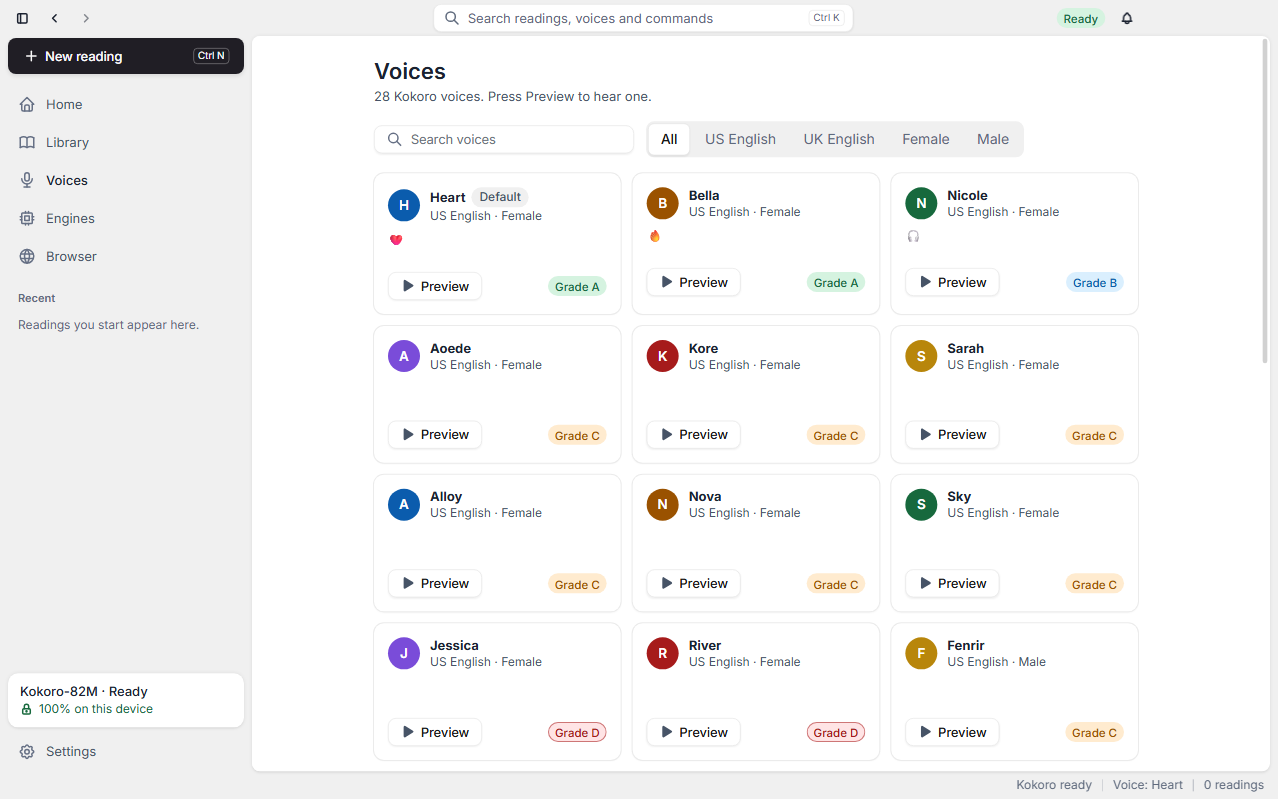
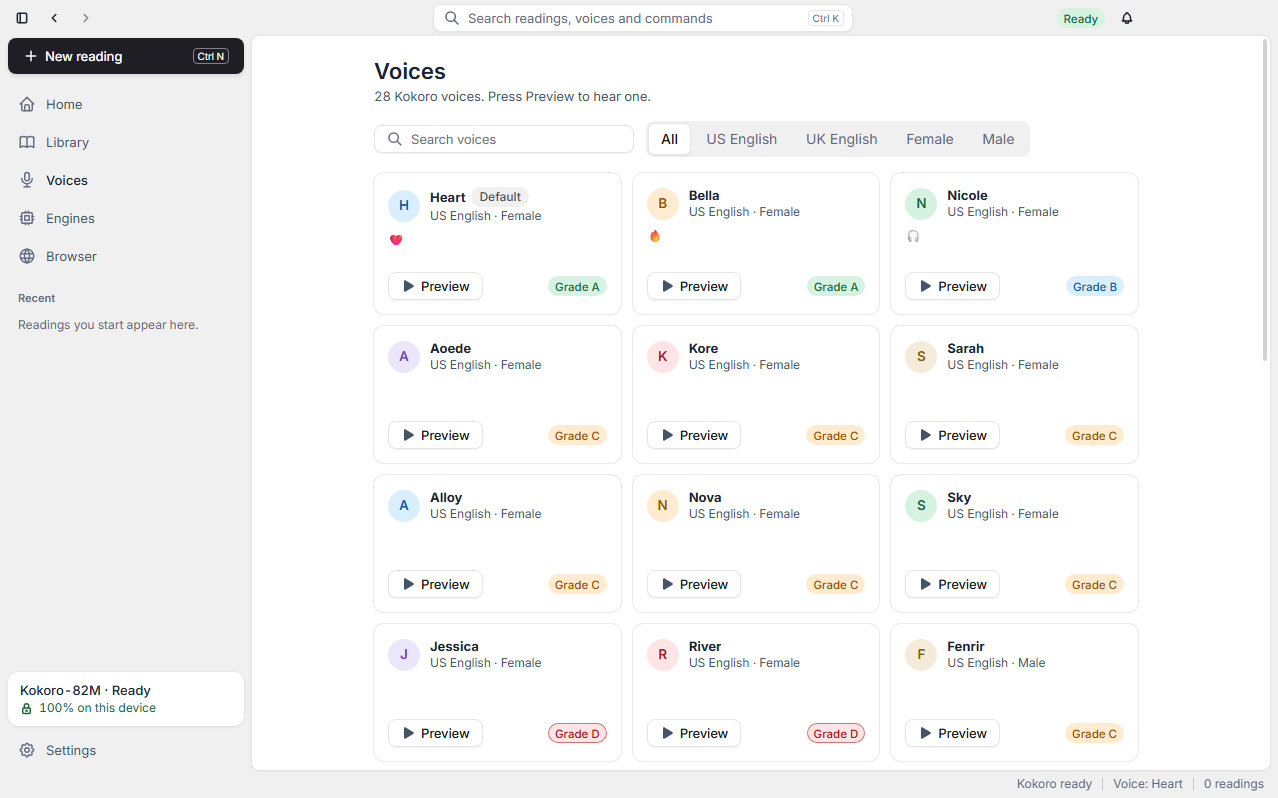
docs(design): record the tactile refinements; recapture the changed desktop screens
Design: F1, F9, G1, G8, K11, E1, W2, L1

ADR: n/a

diff --git a/docs/lockix-design-system.md b/docs/lockix-design-system.md
@@ -291,3 +291,24 @@ Deliberate differences from Lockix:
 - Kept `tag-purple`, `tag-yellow` and the reader `paper` theme.
 - No dark mode; the in-page UI stays white over dark host pages. Logo and store assets keep dark variants.
 - Switch and checkbox off strokes follow the code (`#C3C6CC`), not the darker design-file stroke (section 6).
+
+## 10. Tactile refinements (2026-11-05)
+
+Applied from the tactile-design audit. No Lockix value changed (1 px strokes, bordered white fields, weights 400/500/600, 1 px inside focus ring, spring curves, primary hover 90%). Kit: `packages/ui/src/lumen.css`; desktop: `apps/desktop/src/renderer`. Tests: `packages/ui/tests/browser.test.ts` (Tactile refinements), `apps/desktop/src/renderer/tactile.test.tsx`.
+
+| # | Applied |
+|---|---|
+| 1 | Every `:hover` rule sits in `@media (hover: hover) and (pointer: fine)`; forced `.is-hover` selectors stay outside. |
+| 2 | `font-variant-numeric: tabular-nums` on `.lm` and the desktop `body`, so time, speed, size and count readouts keep their width. |
+| 3 | Reader play/pause is `IconButton` (new `variant` and `glyph` props) as a 40 px round primary; "Back to current" is a shared small primary `Button`. `.rd-play` is deleted and `.rd-back` only positions. `.lm-btn--icon.lm-btn--xl.lm-btn--round` is 40 wide. |
+| 4 | `:active` scale 0.97 on `lm-seg__opt`, `lib-chip`, `rd-preset`, `rd-pill`; 0.92 on `lm-btn--xs` and `lm-close` (as the checkbox). Same 130 ms spring. `prefers-reduced-motion` sets `scale: 1` and keeps the colour fades. |
+| 5 | Unselected segmented options use `--text-secondary` (`#475467`, 6.2:1) on hover and press; tertiary was 4.1 to 4.4:1. Yellow and purple pill text uses new text-only tokens `--tag-yellow-text #80600a` (4.95:1 on the 16% tint) and `--tag-purple-text #6f42c1` (5.35:1 on the 14% tint); `--tag-yellow`, `--tag-purple` and the dots are unchanged. The Chatterbox row and disabled nav items no longer fade as a whole: text stays `--text-secondary`, only the tile and icon take `--disabled-track` and `--disabled-seg`. `.rd-option:disabled` uses the same grey instead of opacity. |
+| 6 | Avatars: chip tint with the tag colour as letter (`.lm-avatar.lm-tone-*`; favicons keep solid tones). Voice cards: `.sk-voice__h` min-height 32, `.sk-voice__f` margin-top auto. Quit dialog: `data-autofocus` on "Keep running in tray" (`Modal` focuses it; the ring shows for keyboard focus only); dialog body text is `--text-primary`. Nested radii computed from the parent for the resume tile and engine tile. `@media (pointer: coarse)` adds an invisible 44 px `::after` hit area to `lm-btn--xs`, `lm-btn--sm` and `lm-close`. Captions `.sk-caps` and `.sk-stat__k` are sentence case 12/16 weight 500 `--text-tertiary`. |
+| + | Segmented label jump: the label is wrapped in `.lm-seg__label` whose `::after` carries the text at weight 500 (`data-label`), so selecting does not move it. Weights stay 400/500. |
+
+Kept as defined or not defined by Lockix:
+
+- Uppercase kept: the table column headers of the notification table (`.sk-notify thead th`) and the reader outline group headings (`.rd-outline__item[data-level="0"]`); the kit has no uppercase captions, Lockix settings group labels and nav captions are not touched. This document does not define an uppercase caption, so the panel, tray and Home captions follow the menu label spec (12/16 weight 500).
+- Ghost button hover text stays `--text-primary` (`#1B2230`, Lockix section 2): it is darker than `--text-secondary` and already above 4.5:1 on the hover and press fills.
+
+Skill rules intentionally not applied (Lockix wins): one weight for all text (Lockix uses 400/500/600); 0.5 px lines and outlines (Lockix uses 1 px strokes and ring shadows); ink-step wells (Lockix wells are `#F5F5F5` grey); focus ring thickness (Lockix 1 px inside line); motion curves and durations (Lockix springs, not the skill's ease-out); progress colour (Lockix blue progress, not black); dark mode treatments (light only).
